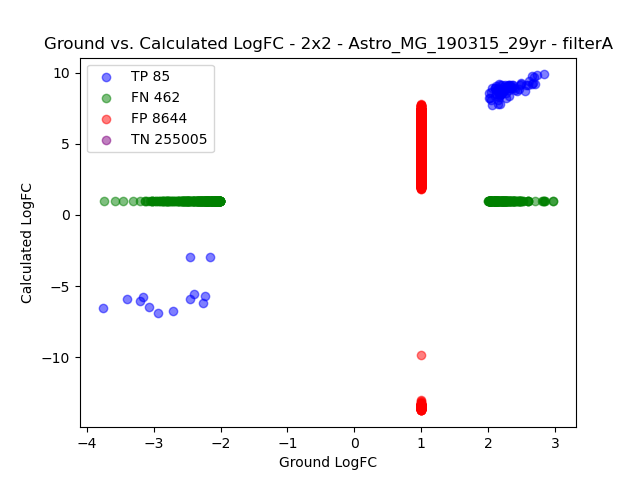
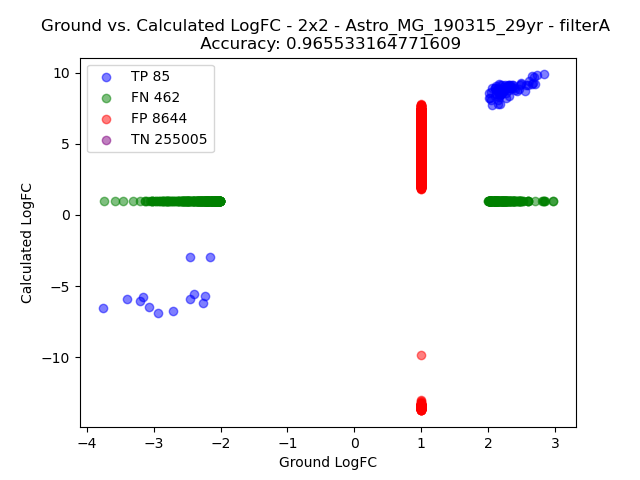
plots

Changed region(s): [[0.0625, 0.0312, 0.8438, 0.125], [0.875, 0.0312, 0.9688, 0.125]]

diff --git a/experiments/2023-07-25/ground_vs_calculated_LFC.py b/experiments/2023-07-25/ground_vs_calculated_LFC.py
@@ -74,7 +74,7 @@ def create_plots(batch, filter_type):
         plt.legend([f"TP {TP}",f"FN {FN}",f"FP {FP}",f"TN {TN}"])
         plt.xlabel("Ground LogFC")
         plt.ylabel("Calculated LogFC")
-        plt.title(f"Ground vs. Calculated LogFC - {e}x{e} - {batch} - {filter_type}")
+        plt.title(f"Ground vs. Calculated LogFC - {e}x{e} - {batch} - {filter_type} \n Accuracy: {accuracy}")
         plt.savefig(f"{e}x{e}_LFC_{batch}_{filter_type}_plot.png")
         plt.close()
 
